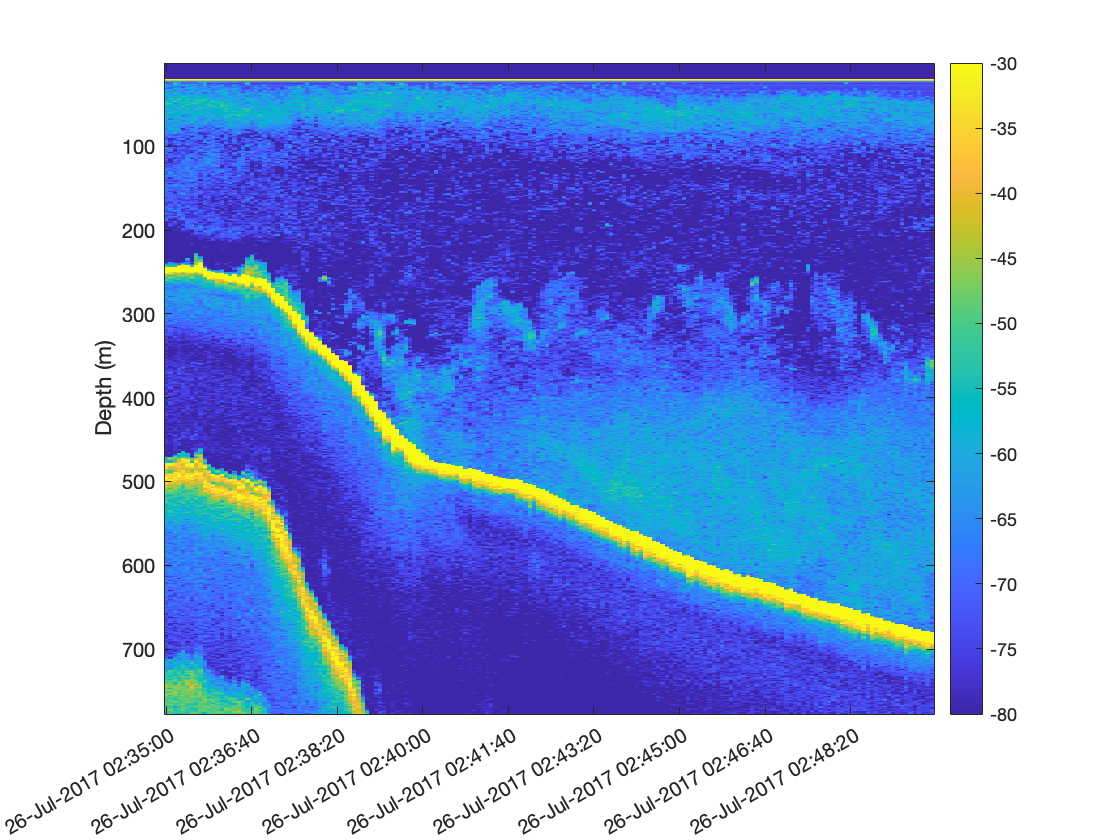
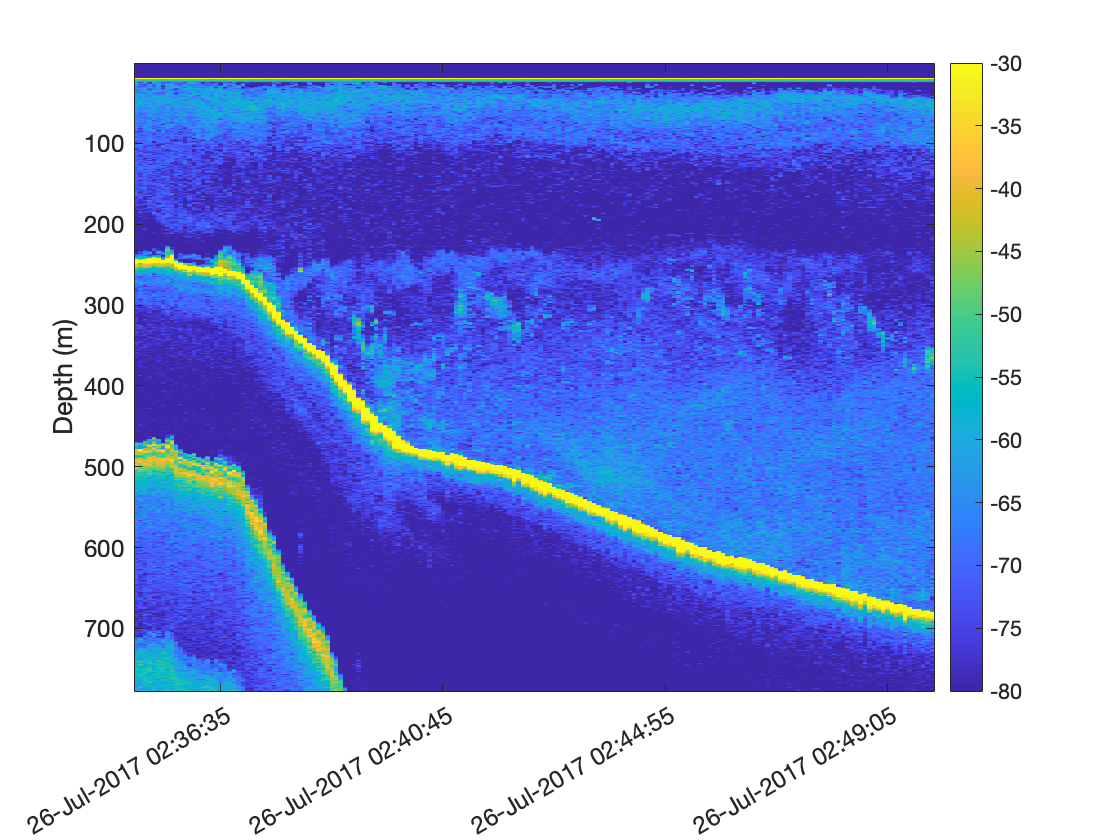
fix command and update fig

diff --git a/tutorials/tool_interoperate.md b/tutorials/tool_interoperate.md
@@ -134,12 +134,11 @@ imagesc(depth, ping_time_datetime, Sv);
 
 However, if you only have an older version of Matlab, you can use the following workaround (from [here](https://www.mathworks.com/matlabcentral/answers/1634620-imagesc-or-equivalent-with-datetime-as-x-axis#answer_881580)):
 ```matlab
-imagesc(Sv);
-xticks = 1:20:180;  % plot ticks with 20 ping_time spacing
-xlabels = cellstr(ping_time_datetime(xticks))
+imagesc(Sv(:,:,2));
+xticks = 20:50:180;  % plot ticks with 20 ping_time spacing
+xlabels = cellstr(ping_time_datetime(xticks));
 set(gca, 'XTick',xticks, 'XTickLabel', xlabels)
-set('ylabel', 'Depth (m)')
-set(gca, 'ylabel', 'Depth (m)')
+set(gca, 'fontsize', 12)
 ylabel('Depth (m)')
 clim([-80, -30])
 colorbar
